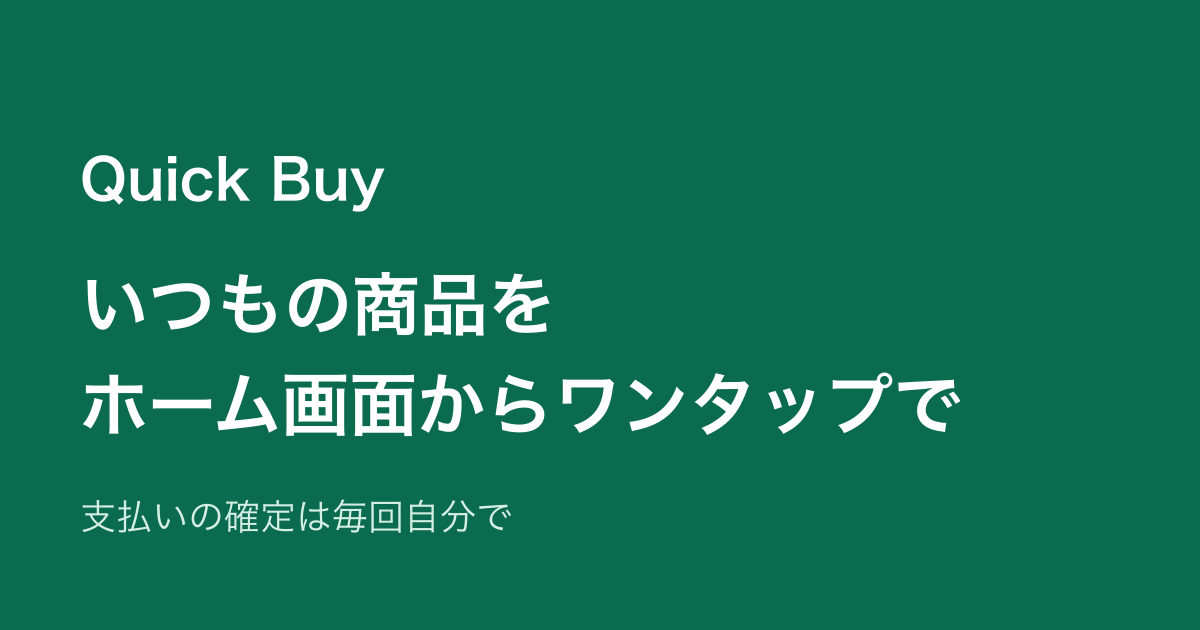
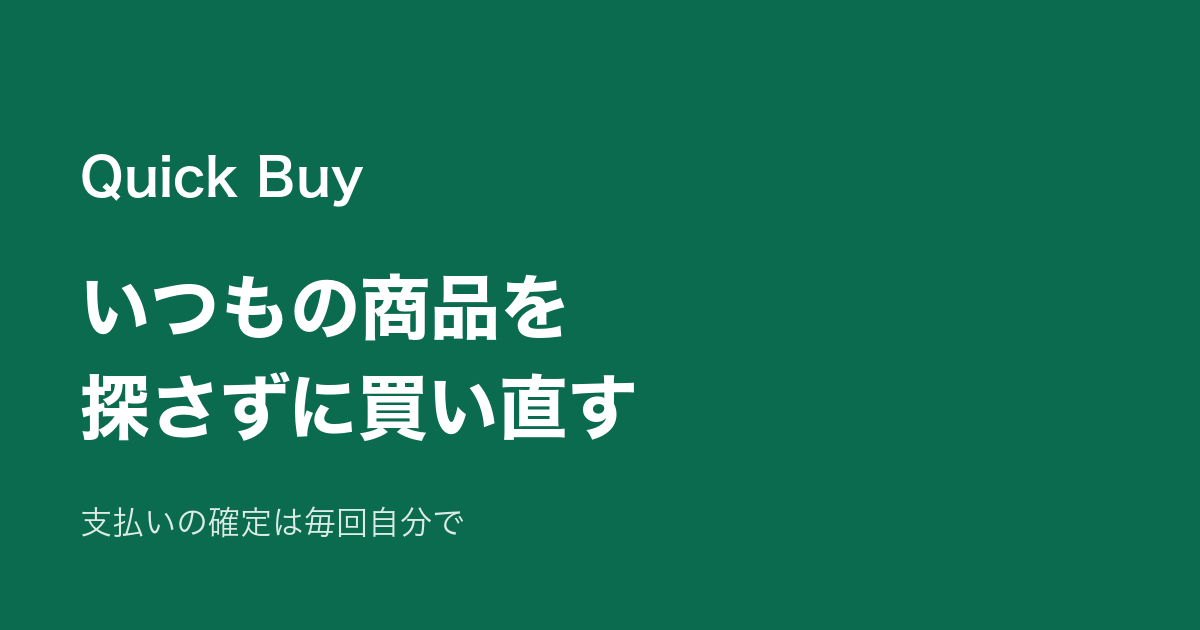
紹介ページを今のアプリの流れに合わせ、GitHub Pages を有効にした記録を足す
- docs/index.html: 「ワンタップ」を外し、使い方を検索してお気に入りにする → 「カートイン」と確認 → 購入画面 (Amazon は商品ページ) → リマインド、の流れに書き直す
- docs/_config.yml: 法務ページに出る説明文から「ワンタップ」を外す
- docs/og.png: 見出しの文言に合わせて作り直す
- documents/DIRECTION.md: Pages を有効にした日と配信の設定を「決めたこと」に足す

Refs #53

Claude-Session: https://claude.ai/code/session_01VQG2WLGEE3QADmfsBUduMG

diff --git a/docs/index.html b/docs/index.html
@@ -3,12 +3,12 @@
 <head>
   <meta charset="utf-8">
   <meta name="viewport" content="width=device-width, initial-scale=1">
-  <title>Quick Buy | いつもの商品をホーム画面からワンタップで買い直す</title>
-  <meta name="description" content="Quick Buy は Shopify の店と Amazon のいつもの商品をお気に入りにして、ホーム画面のウィジェットから購入画面を開く再購入アプリです。定期購入の契約は不要で、支払いの確定は毎回自分で行います。">
+  <title>Quick Buy | いつもの商品を探さずに買い直す</title>
+  <meta name="description" content="Quick Buy は Shopify の店と Amazon のいつもの商品をお気に入りにして、アプリの一覧やホーム画面のウィジェットから「カートイン」を押し、確認に答えると購入画面を開く再購入アプリです。定期購入の契約は不要で、支払いの確定は毎回自分で行います。">
   <link rel="canonical" href="https://bannzai.github.io/quickbuy/">
   <meta property="og:type" content="website">
-  <meta property="og:title" content="Quick Buy | いつもの商品をホーム画面からワンタップで買い直す">
-  <meta property="og:description" content="いつもの商品をお気に入りにして、ホーム画面のウィジェットから購入画面を開く再購入アプリ。支払いの確定は毎回自分で。">
+  <meta property="og:title" content="Quick Buy | いつもの商品を探さずに買い直す">
+  <meta property="og:description" content="いつもの商品をお気に入りにして、「カートイン」を押して確認に答えると購入画面が開く再購入アプリ。支払いの確定は毎回自分で。">
   <meta property="og:url" content="https://bannzai.github.io/quickbuy/">
   <meta property="og:image" content="https://bannzai.github.io/quickbuy/og.png">
   <meta property="og:locale" content="ja_JP">
@@ -21,7 +21,7 @@
     "name": "Quick Buy",
     "applicationCategory": "ShoppingApplication",
     "operatingSystem": "iOS",
-    "description": "Shopify の店と Amazon のいつもの商品をお気に入りにして、ホーム画面のウィジェットから購入画面を開く再購入アプリ",
+    "description": "Shopify の店と Amazon のいつもの商品をお気に入りにして、アプリの一覧やホーム画面のウィジェットから確認に答えて購入画面を開く再購入アプリ",
     "url": "https://bannzai.github.io/quickbuy/",
     "image": "https://bannzai.github.io/quickbuy/og.png",
     "author": { "@type": "Person", "name": "bannzai" }
@@ -94,8 +94,8 @@
 </head>
 <body>
   <header class="hero">
-    <h1>いつもの商品を<br>ホーム画面からワンタップで買い直す</h1>
-    <p class="lead">Quick Buy は Shopify の店と Amazon のいつもの商品をお気に入りにして、ホーム画面のウィジェットから購入画面を開くアプリです。定期購入の契約は要りません。支払いの確定は毎回自分で行います。</p>
+    <h1>いつもの商品を<br>探さずに買い直す</h1>
+    <p class="lead">Quick Buy は Shopify の店と Amazon のいつもの商品をお気に入りにしておき、アプリの一覧やホーム画面のウィジェットから店の購入画面を開くアプリです。開く前に毎回確認が出ます。定期購入の契約は要りません。支払いの確定は毎回自分で行います。</p>
     <p class="status">iPhone 向けに開発中</p>
   </header>
   <main>
@@ -103,16 +103,20 @@
       <h2 id="how">使い方</h2>
       <ol class="steps" role="list">
         <li>
-          <h3>いつもの商品をお気に入りにする</h3>
-          <p>コーヒー豆や洗剤やペットフードなど、繰り返し買う商品を登録します。</p>
+          <h3>検索してお気に入りにする</h3>
+          <p>アプリのトップページで Shopify の店の商品を検索し、種類と個数を選んでお気に入りにします。コーヒー豆や洗剤やペットフードなど、繰り返し買う商品を入れておきます。商品ページの URL を貼り付けるか、共有メニューから渡しても入れられます。Amazon の商品はこの方法で入れます。</p>
         </li>
         <li>
-          <h3>ホーム画面にウィジェットを置く</h3>
-          <p>お気に入りの商品がホーム画面に並びます。</p>
+          <h3>「カートイン」を押して確認に答える</h3>
+          <p>お気に入りの一覧で「カートイン」を押すと「購入画面を開きますか？」の確認が出ます。お気に入りはホーム画面のウィジェットにも並び、ウィジェットの「カートイン」を押すと同じ確認が通知で届きます。ウィジェットから使うには通知の許可が要ります。</p>
         </li>
         <li>
-          <h3>タップして購入画面を開く</h3>
-          <p>商品がカートに入った状態の購入画面が開きます。内容を確かめて自分で支払いを確定します。</p>
+          <h3>購入画面が開く</h3>
+          <p>確認に答えると、商品がカートに入った状態の店の購入画面が開きます。内容を確かめて自分で支払いを確定します。Amazon の商品は「Amazon で開く」を押して確認に答えると Amazon の商品ページが開きます。この時、商品はカートに入っていないので、Amazon の画面で個数を選んでカートに入れます。</p>
+        </li>
+        <li>
+          <h3>買う頃に知らせを受け取る</h3>
+          <p>お気に入りごとに何日ごとに知らせるかを決めておくと、その日数が過ぎた時に通知が届きます。通知をタップすると購入画面が開きます。日数は購入画面を開いた時から数え直します。</p>
         </li>
       </ol>
     </section>
@@ -125,11 +129,11 @@
         </li>
         <li>
           <h3>買う時は自分で決めたい</h3>
-          <p>Quick Buy が勝手に購入することはありません。開くのは購入画面までです。</p>
+          <p>Quick Buy が勝手に購入することはありません。購入画面を開く前に毎回確認が出ます。開くのは購入画面までです。</p>
         </li>
         <li>
           <h3>毎回探してカートに入れる手間を省きたい</h3>
-          <p>店を開いて商品を探す操作を、ホーム画面のワンタップに置き換えます。</p>
+          <p>店を開いて商品を探す操作を、「カートイン」を押して確認に答えるだけにします。</p>
         </li>
       </ul>
     </section>
@@ -139,7 +143,7 @@
     </section>
     <section aria-labelledby="support">
       <h2 id="support">サポート・お問い合わせ</h2>
-      <p>ご質問や不具合の報告はメールで受け付けています。アプリの公開後は、アプリ内の設定画面にあるお問い合わせからも送れるようにします。</p>
+      <p>ご質問や不具合の報告はメールで受け付けています。アプリの設定画面のお問い合わせからも送れます。</p>
       <p><a class="contact" href="mailto:bannzai.app@gmail.com">bannzai.app@gmail.com にメールする</a></p>
     </section>
   </main>

diff --git a/documents/DIRECTION.md b/documents/DIRECTION.md
@@ -110,6 +110,7 @@ bannzai の返答 (2026-11-18。https://github.com/bannzai/quickbuy/issues/8#iss
 | 2026-11-19 | トップページの検索の実装 (https://github.com/bannzai/quickbuy/issues/34 ) | アプリを開いた時はトップページを出すが、ウィジェットの「カートイン」以外の場所のタップで開いた時はお気に入りのタブを出す (2026-11-18 のウィジェットの実装の行の「アプリの一覧を開く」を保つ)。ウィジェットはアプリの中だけの行き先の URL (`quickbuy-widget://favorites`) を渡し、アプリはこの URL の時だけタブを替える。検索の結果からの追加の入口は Shopify の店の商品だけに置き、Amazon のお気に入りは商品ページの URL からだけ足す (検索の結果の店のドメインが Amazon のものなら並べない) | agent |
 | 2026-11-19 | トップページの検索の実装 (https://github.com/bannzai/quickbuy/issues/34 ) | 通知の許可の説明を出すかを確かめる時機に、お気に入りのタブを開いた時を足す。検索の結果からの追加の画面はホームのタブの上で閉じるため、追加の画面を閉じた時に確かめると、お気に入りの一覧を見る前に説明が出る。一覧を開いた時に、足した最初のお気に入りと一緒に説明を見せる (出す条件は 2026-11-18 の行のまま) | agent |
 | 2026-11-19 | Amazon の商品の登録と開き方の実装 (https://github.com/bannzai/quickbuy/issues/35 ) | 受け取る URL は www.amazon.co.jp の商品ページの URL (`/dp/{ASIN}`・`/{商品名の部分}/dp/{ASIN}`・`/gp/product/{ASIN}`・`/gp/aw/d/{ASIN}`) と、その短い URL (`https://amzn.asia/d/{英数字}`)。ほかの国の Amazon・`amazon.co.jp` (www の無い形)・`amzn.to`・`a.co` は受け取らず、Amazon の共有から渡す案内を出す。短い URL は、短い URL へ 1 回だけ GET し、転送に従わずに転送先から ASIN を読む (Amazon の商品ページは取得しない)。保存するのは ASIN と、利用者が確認の画面で付けた名前だけ (名前の欄は空で出し、Amazon のページから名前・画像を読まない)。確認の画面には店のドメイン `www.amazon.co.jp` と ASIN を出し、個数の欄を出さない。商品ページの URL で個数を渡せるかは、2026-11-19 に `?quantity=3` を付けた URL を GitHub Actions の Linux Runner の Chromium で開いたが、Amazon のロボットの確認の画面になり確かめられなかった。個数は利用者が Amazon の画面で選ぶ。保存する個数は型の下限の 1 で、一覧・ウィジェット・通知・編集の画面に出さない。一覧とウィジェットのボタンは「Amazon で開く」、確認の見出しは「Amazon の商品ページを開きますか？」にする (開いた時に商品がカートに入らないため、「カートイン」「購入画面」と書かない)。一覧の店の表記は `www.amazon.co.jp`、ウィジェットの行の説明は「Amazon」。リマインドは Shopify の店と同じく、商品ページを開いた時 (一覧の確認の「開く」・通知のタップ) にその時刻から数え直し、通知の案内は「タップすると Amazon の商品ページが開きます」 | agent |
+| 2026-11-19 | 紹介ページと法務文書の公開 (https://github.com/bannzai/quickbuy/issues/53 ) | GitHub Pages を 2026-11-19 に有効にした。配信は main の `docs/` をブランチから配信する設定 (`build_type` は `legacy`、`source` は `main` の `/docs`) で、`https://bannzai.github.io/quickbuy/` が紹介ページ、`/Terms-ja`・`/PrivacyPolicy-ja` が利用規約とプライバシーポリシー。main へのマージが公開になる。Catalog に渡すエージェントのプロフィールは、この時点では jsDelivr のまま (上の 2026-11-19 のトップページの検索の行。Pages の URL へ移すのはアプリの定数の変更を伴うため別の issue) | agent |
 
 ## agent に任せること
 
